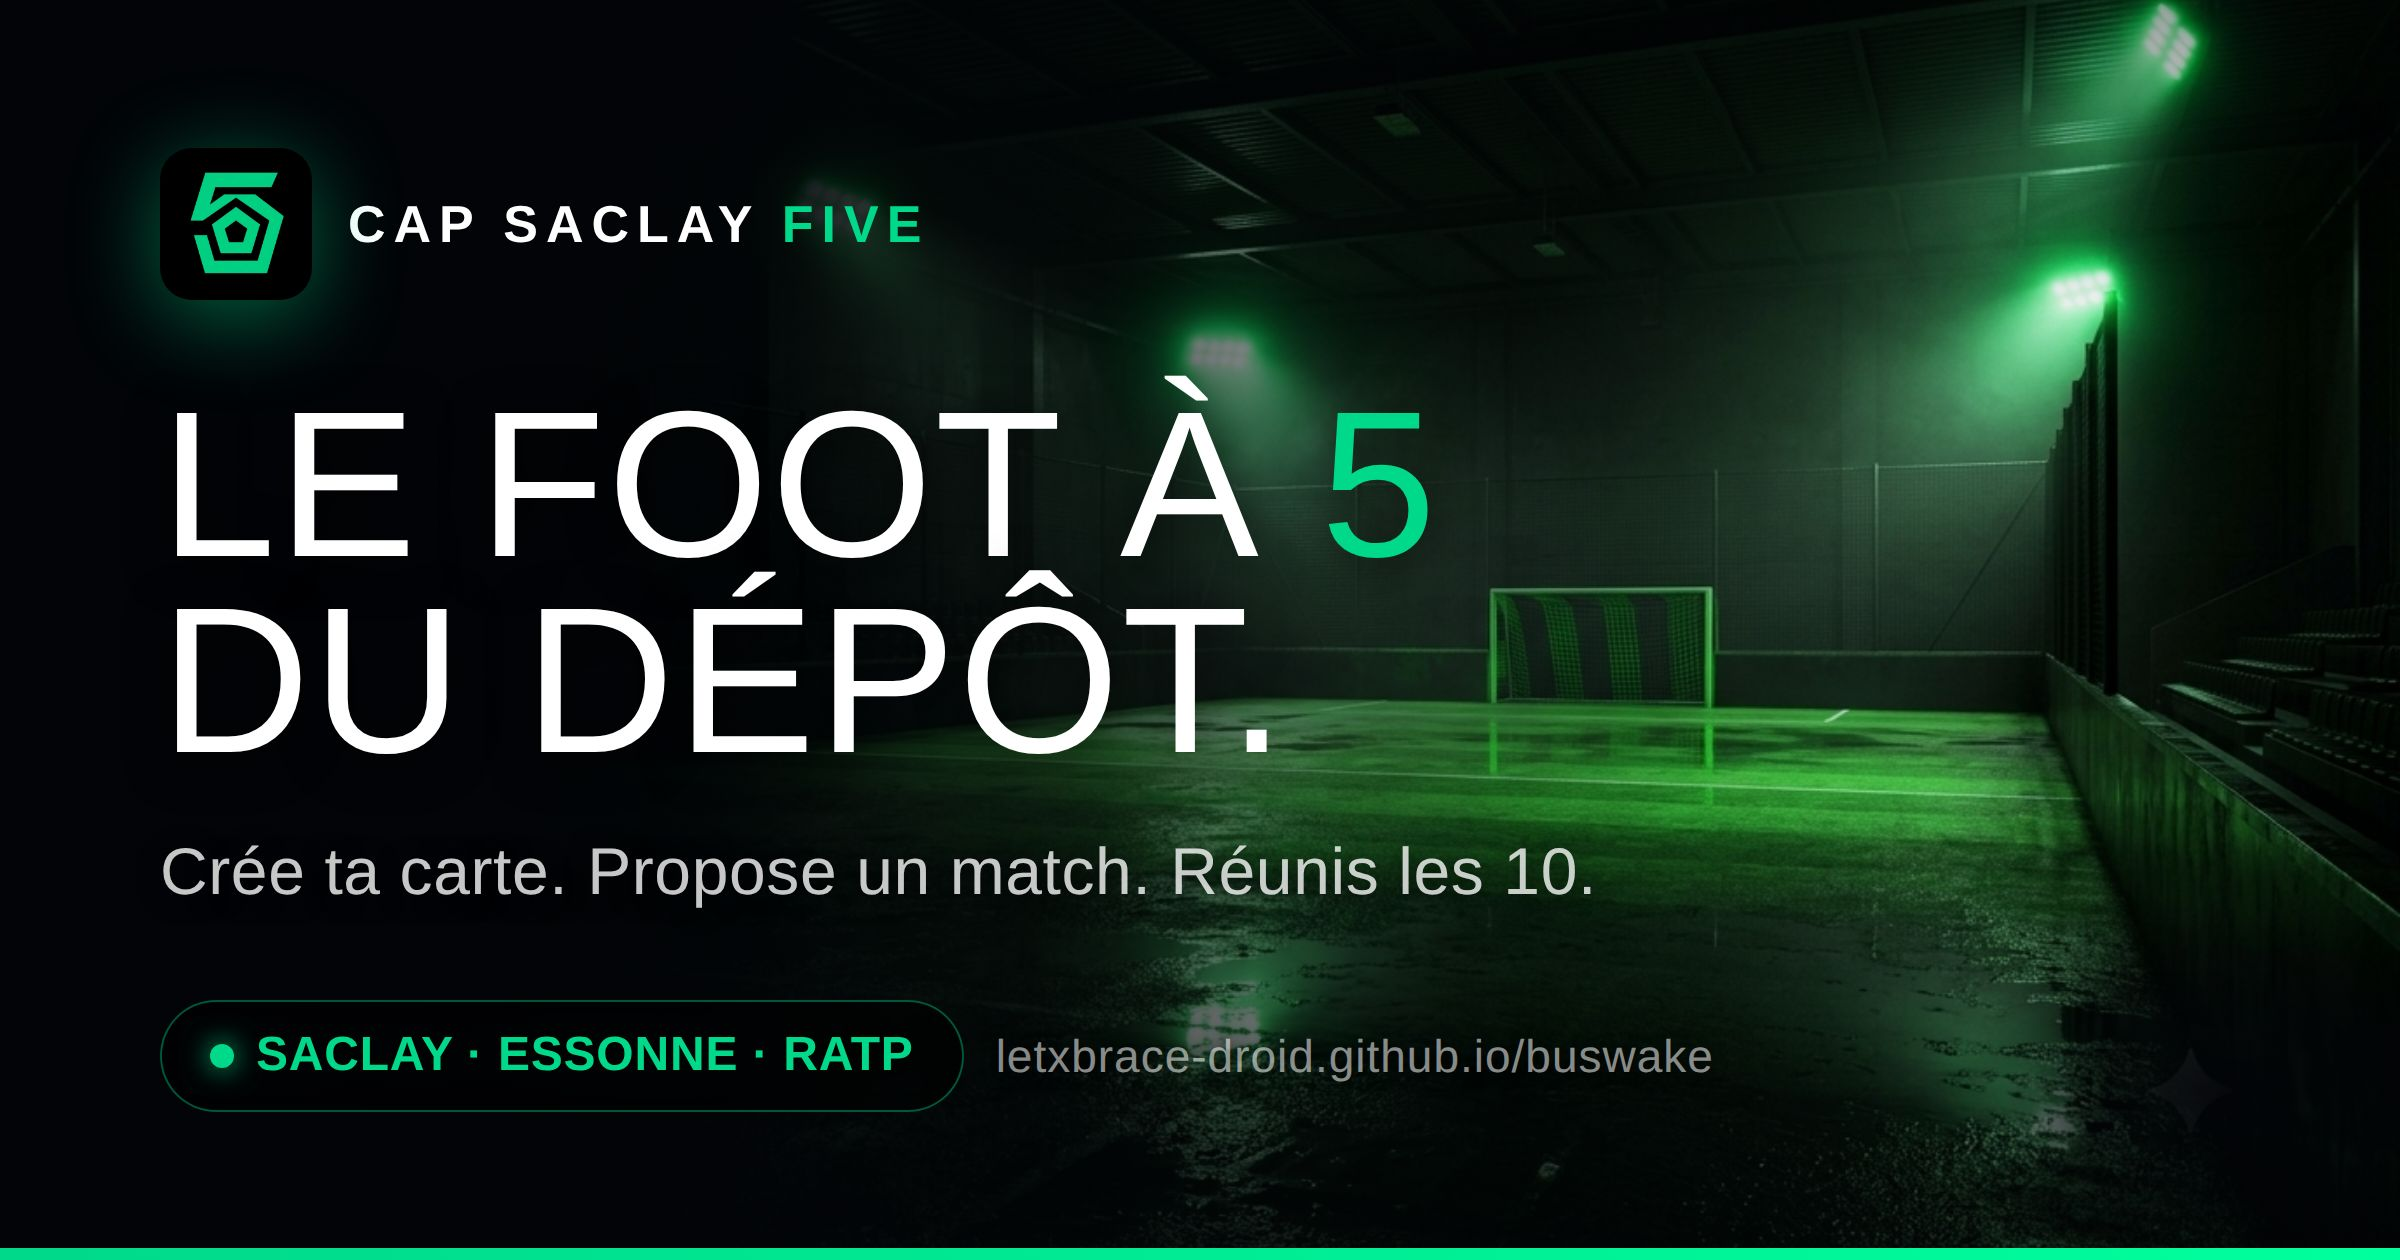
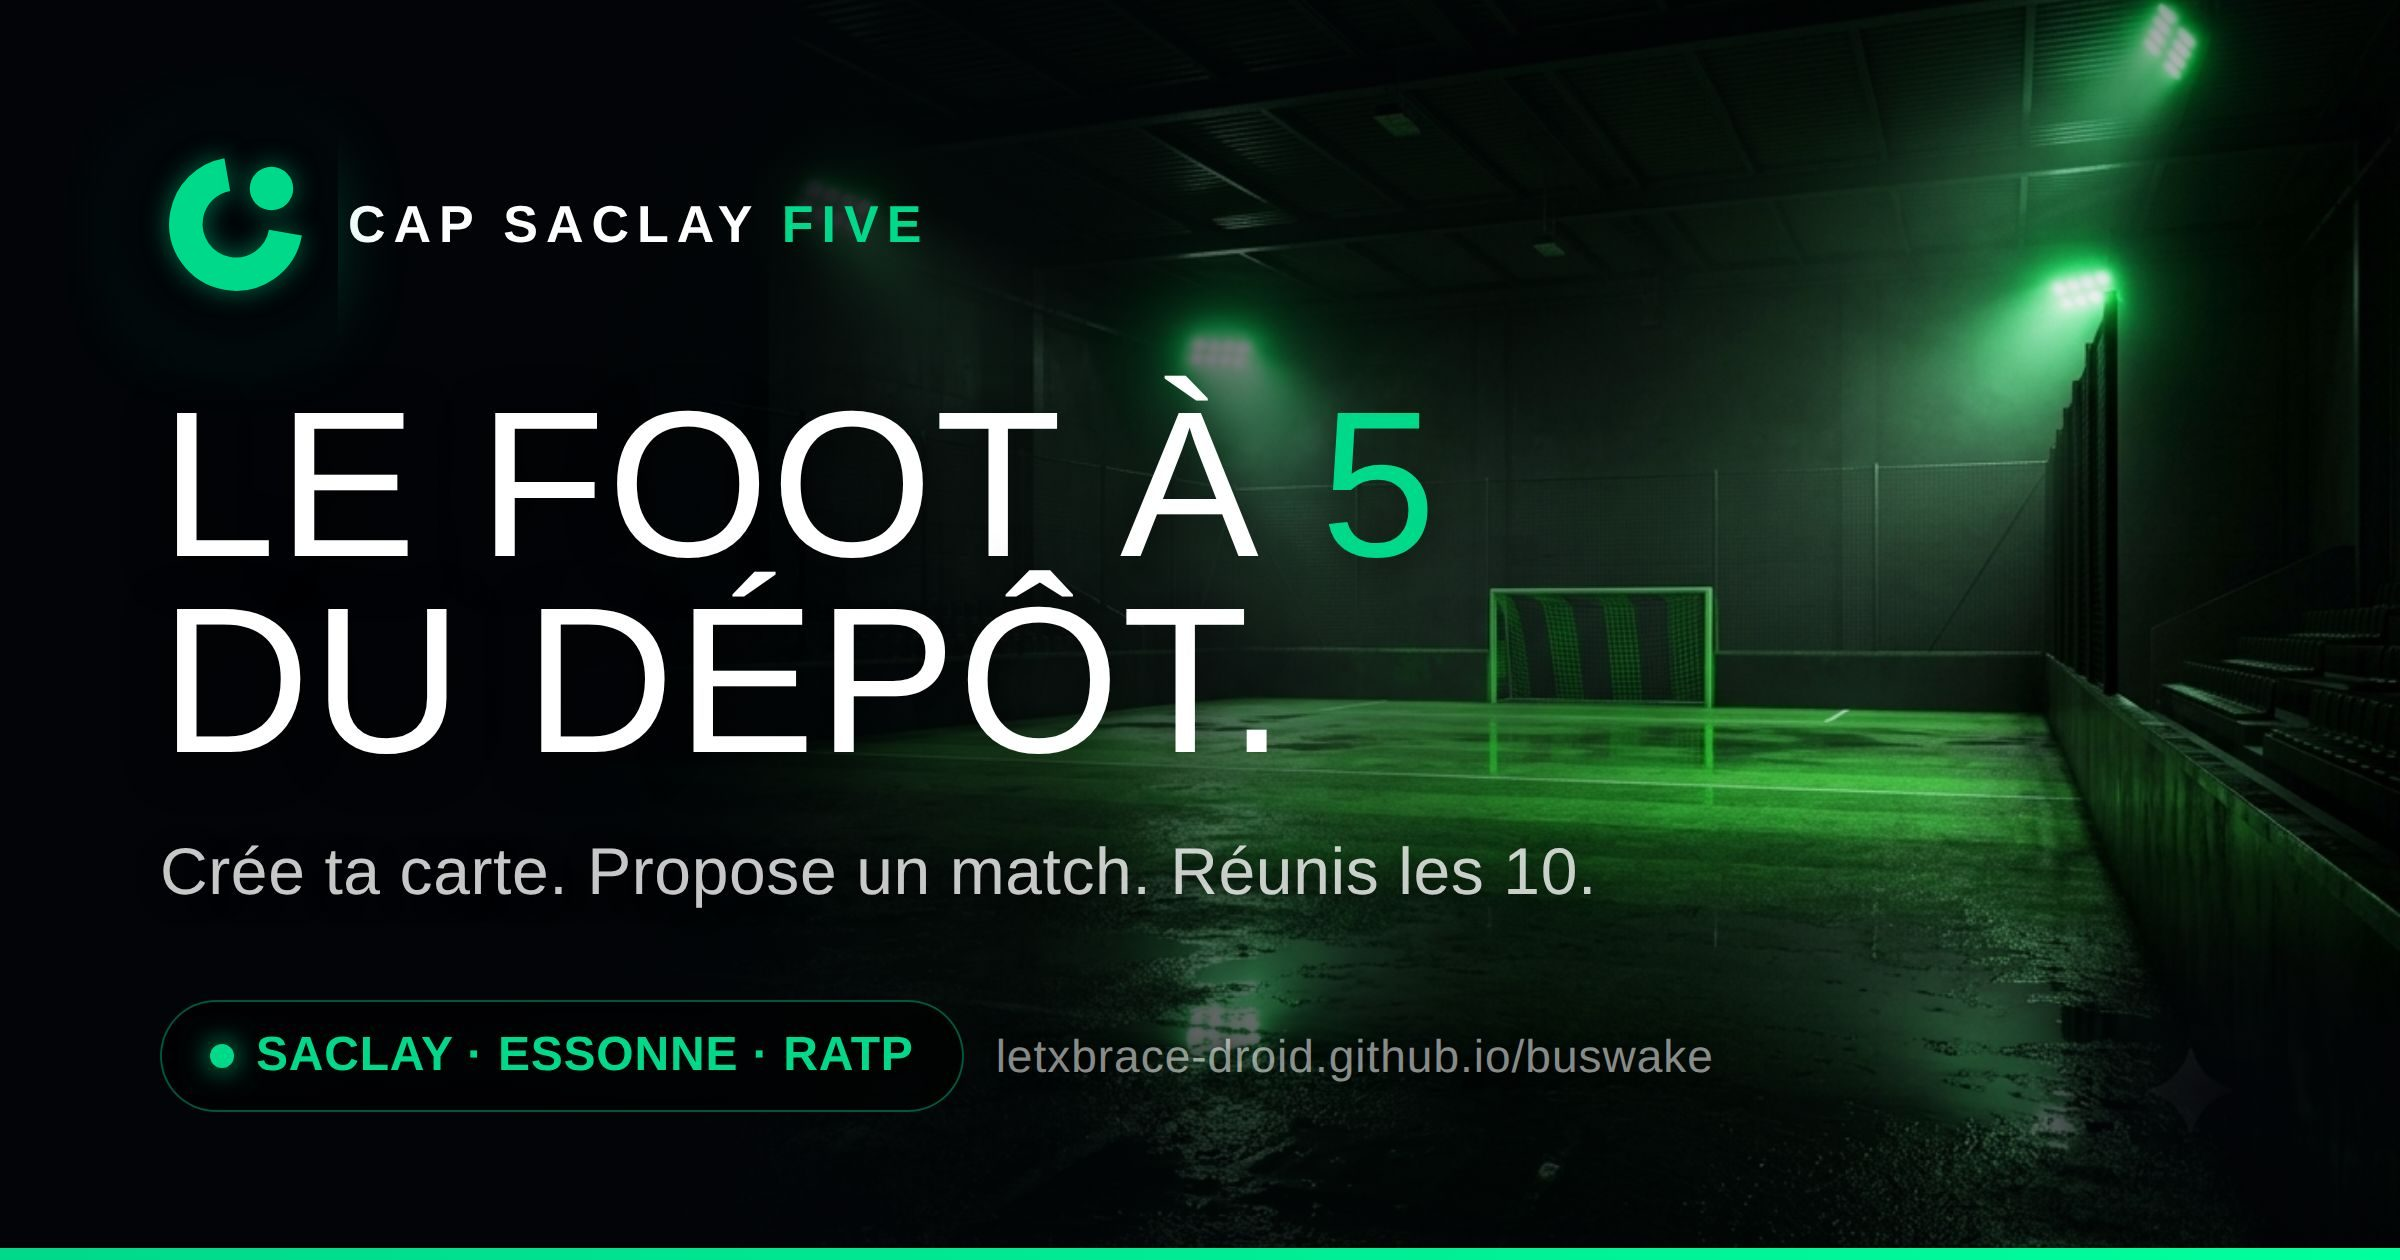
Nouvelle identité : le symbole « arc + point »
Le logo « 5-pentagone » enfermait la marque dans le foot à 5. Le nouveau
symbole — un anneau ouvert et le point qui le referme — dit le produit
sans nommer aucun sport : il manque quelqu'un, le renfort se met en place.

Symbole reconstruit en vectoriel plutôt qu'issu du JPEG généré, qui avait
trois défauts : canvas portrait (784x1168), vert à #06F07B au lieu de
#00D88A, artefacts de compression. Arc et point sont désormais calculés —
le point est calé sur le rayon médian de l'arc, ce qui verrouille le sens
(il REJOINT le cercle ; posé en retrait, il en serait exclu).

Deux cadrages, parce que les usages diffèrent :
- logo.png : fond TRANSPARENT, marque à 88 %. Il est posé inline sur le
  fond noir de l'app (topbar 30 px, splash 132 px) avec un halo CSS ; un
  fond noir incrusté faisait rayonner le halo autour d'un carré invisible.
- icon-512.png : fond noir plein, marque à 62 % — conforme à la safe zone
  des icônes adaptatives Android.
- og-image.jpg : symbole remplacé en place (la photo du terrain n'était
  plus disponible), effacement fondu pour ne pas trancher dans le halo du
  coin ni mordre sur le texte.

Revue design menée au passage — un vrai défaut trouvé :
- --green valait #00E676 alors que --orange vaut #00D88A (le vert de la
  marque, sous un nom hérité). Deux verts à 6 % d'écart se lisent comme
  une erreur, pas comme une intention — et mes propres composants récents
  (rayon-chip, cm-vis) mélangeaient les deux dans une même règle.
[…]

Changed region(s): [[0.0312, 0.1238, 0.1562, 0.2786]]

diff --git a/index.html b/index.html
@@ -33,6 +33,9 @@
   <style>
     /* ===== DESIGN SYSTEM V2 — ULTRA PREMIUM ===== */
     :root {
+      /* NOM HÉRITÉ : --orange EST le vert de la marque (#00D88A), pas un orange.
+         Renommer les 132 usages toucherait aussi la classe .btn-orange générée
+         dans des chaînes JS — risque réel pour un gain de lisibilité seul. */
       --orange: #00D88A;
       --orange2: #00FF9D;
       --orange-dark: #00B876;
@@ -50,8 +53,11 @@
          pas de teinte décorative, s'adapte au fond, lisible (AA). */
       --text-sec: rgba(255,255,255,0.62);
       --text-muted: rgba(255,255,255,0.45);
-      --green: #00E676;
-      --green-glow: rgba(0,230,118,.3);
+      /* Alias de l'accent — il a longtemps valu #00E676, un vert voisin mais
+         DIFFÉRENT : deux verts à 6 % d'écart se lisent comme une erreur, pas
+         comme une intention. Une seule couleur d'accent, comme annoncé plus bas. */
+      --green: #00D88A;
+      --green-glow: rgba(0,216,138,.3);
       --red: #FF1744;
       --blue: #00B0FF;
       --gold: #FFD700;
@@ -373,7 +379,7 @@
 
     .tag { display:inline-flex; align-items:center; gap:4px; padding:4px 10px; border-radius:var(--r-lg); font-size:10px; font-weight:700; letter-spacing:.6px; text-transform:uppercase; }
     .tag-sondage { background:rgba(0,176,255,.12); color:#00B0FF; border:1px solid rgba(0,176,255,.25); }
-    .tag-confirme { background:rgba(0,230,118,.12); color:#00E676; border:1px solid rgba(0,230,118,.25); }
+    .tag-confirme { background:rgba(0,216,138,.12); color:var(--orange); border:1px solid rgba(0,216,138,.25); }
     .tag-termine { background:rgba(60,60,90,.2); color:var(--text-sec); border:1px solid var(--border); }
 
     .empty-state { text-align:center; padding:44px 20px; color:var(--text-sec); }
@@ -397,7 +403,7 @@
     .btn-orange:hover { transform:translateY(-1px); box-shadow:0 6px 20px var(--orange-glow); }
     .btn-outline { background:transparent; border:1px solid var(--border-light); color:var(--text-sec); }
     .btn-outline:hover { border-color:var(--orange); color:var(--orange); }
-    .btn-green { background:linear-gradient(135deg, #00D88A, #00E676); color:#000; box-shadow:0 4px 14px var(--green-glow); }
+    .btn-green { background:linear-gradient(135deg, var(--orange), var(--orange2)); color:#000; box-shadow:0 4px 14px var(--green-glow); }
     .btn-red { background:linear-gradient(135deg, #B71C1C, var(--red)); color:#fff; }
 
     .divider { height:1px; background:var(--border); margin:16px 0; }
@@ -505,16 +511,16 @@
     }
     .creneau-vote:hover { border-color:rgba(0,216,138,.4); background:var(--card2); }
     .creneau-vote.voted { border-color:var(--orange); background:rgba(0,216,138,.07); box-shadow:0 0 14px rgba(0,216,138,.1); }
-    .creneau-vote.top { border-color:var(--green); background:rgba(0,230,118,.05); box-shadow:0 0 14px rgba(0,230,118,.08); }
+    .creneau-vote.top { border-color:var(--green); background:rgba(0,216,138,.05); box-shadow:0 0 14px rgba(0,216,138,.08); }
     .creneau-vote .info { flex:1; }
     .creneau-vote .date-str { font-weight:600; font-size:15px; }
     .creneau-vote .lieu-str { font-size:12px; color:var(--text-sec); margin-top:2px; }
     .creneau-vote .vote-count { display:flex; flex-direction:column; align-items:center; gap:2px; }
     .vote-num { font-family:'Anton',sans-serif; font-size:24px; font-weight:700; color:var(--orange); text-shadow:0 0 10px var(--orange-glow); }
     .vote-label { font-size:10px; color:var(--text-sec); text-transform:uppercase; letter-spacing:.5px; }
-    .vote-check { width:22px; height:22px; border-radius:50%; background:var(--green); color:#04130c; display:flex; align-items:center; justify-content:center; font-size:12px; margin-left:8px; flex-shrink:0; box-shadow:0 0 10px rgba(0,230,118,.4); }
-    .creneau-vote.voted { border-color:var(--green) !important; background:rgba(0,230,118,.06) !important; }
-    .creneau-vote.voted .vote-num { color:var(--green); text-shadow:0 0 10px rgba(0,230,118,.4); }
+    .vote-check { width:22px; height:22px; border-radius:50%; background:var(--green); color:#04130c; display:flex; align-items:center; justify-content:center; font-size:12px; margin-left:8px; flex-shrink:0; box-shadow:0 0 10px rgba(0,216,138,.4); }
+    .creneau-vote.voted { border-color:var(--green) !important; background:rgba(0,216,138,.06) !important; }
+    .creneau-vote.voted .vote-num { color:var(--green); text-shadow:0 0 10px rgba(0,216,138,.4); }
 
     /* Panneau créateur compact (sondage) */
     .creator-panel { background:linear-gradient(180deg,var(--card),#10141c); border:1px solid var(--border); border-radius:var(--r-md); padding:13px 14px; margin:2px 0 10px; box-shadow:inset 0 1px 0 rgba(255,255,255,.04); }
@@ -842,7 +848,7 @@
     .mrow-manque { font-size:15px; font-weight:700; margin-bottom:3px; }
     .mrow-where { font-size:12px; color:var(--text-sec); white-space:nowrap; overflow:hidden; text-overflow:ellipsis; }
     .mrow-cta { flex-shrink:0; font-size:12px; font-weight:700; color:var(--orange); background:rgba(0,216,138,.12); border:1px solid rgba(0,216,138,.28); padding:8px 13px; border-radius:var(--r-lg); }
-    .mrow-cta.is-joined { color:var(--green); background:rgba(0,230,118,.1); border-color:rgba(0,230,118,.3); }
+    .mrow-cta.is-joined { color:var(--green); background:rgba(0,216,138,.1); border-color:rgba(0,216,138,.3); }
     .mrow-cta.is-full { color:var(--text-muted); background:transparent; border-color:var(--border); }
 
     .atout-bar-wrap { margin-bottom:10px; }
@@ -1023,7 +1029,7 @@
       display:flex; align-items:center; gap:10px;
       box-shadow:0 8px 32px rgba(0,0,0,.4);
     }
-    .toast.success { border-color:rgba(0,230,118,.4); background:rgba(0,30,12,.9); }
+    .toast.success { border-color:rgba(0,216,138,.4); background:rgba(0,30,12,.9); }
     .toast.error { border-color:rgba(255,23,68,.4); background:rgba(30,0,8,.9); }
     .toast.levelup {
       border-color:rgba(255,215,0,.5); background:rgba(30,20,0,.9);
@@ -1287,7 +1293,7 @@
     .fut-club-shield { display:inline-flex; align-items:center; gap:8px; margin-top:6px; justify-content:center; }
     .fut-poste-badge {
       display:inline-flex; align-items:center; gap:5px;
-      background:rgba(0,230,118,.15); border:1px solid rgba(0,230,118,.3);
+      background:rgba(0,216,138,.15); border:1px solid rgba(0,216,138,.3);
       border-radius:var(--r-lg); padding:4px 12px;
       font-size:12px; font-weight:700; color:var(--green);
       margin-top:6px;
@@ -1663,7 +1669,7 @@
     .friend-action-btn.fadd{border-color:var(--orange);color:var(--orange);}
     .friend-action-btn.fadd:hover{background:var(--orange);color:#fff;}
     .friend-action-btn.faccept{border-color:var(--green);color:var(--green);}
-    .friend-status{font-size:11px;padding:3px 8px;border-radius:var(--r-sm);background:rgba(0,230,118,.1);color:var(--green);white-space:nowrap;}
+    .friend-status{font-size:11px;padding:3px 8px;border-radius:var(--r-sm);background:rgba(0,216,138,.1);color:var(--green);white-space:nowrap;}
     .friends-empty{font-size:13px;color:var(--text-muted);text-align:center;padding:12px 0;}
     .friend-chev{color:var(--text-muted);font-size:20px;margin-right:2px;}
 

diff --git a/sw.js b/sw.js
@@ -1,4 +1,4 @@
-const CACHE = 'cs5-v66';
+const CACHE = 'cs5-v67';
 const PRECACHE = ['./','./index.html','./manifest.json','./icon-512.png','./logo.png','./og-image.jpg','./art-bolt.png','./art-goal.png','./art-player.png','./art-empty-histo.png','./art-empty-amis.png','./art-empty-vestiaire.png','./art-podium.png'];
 
 self.addEventListener('install', e => {
